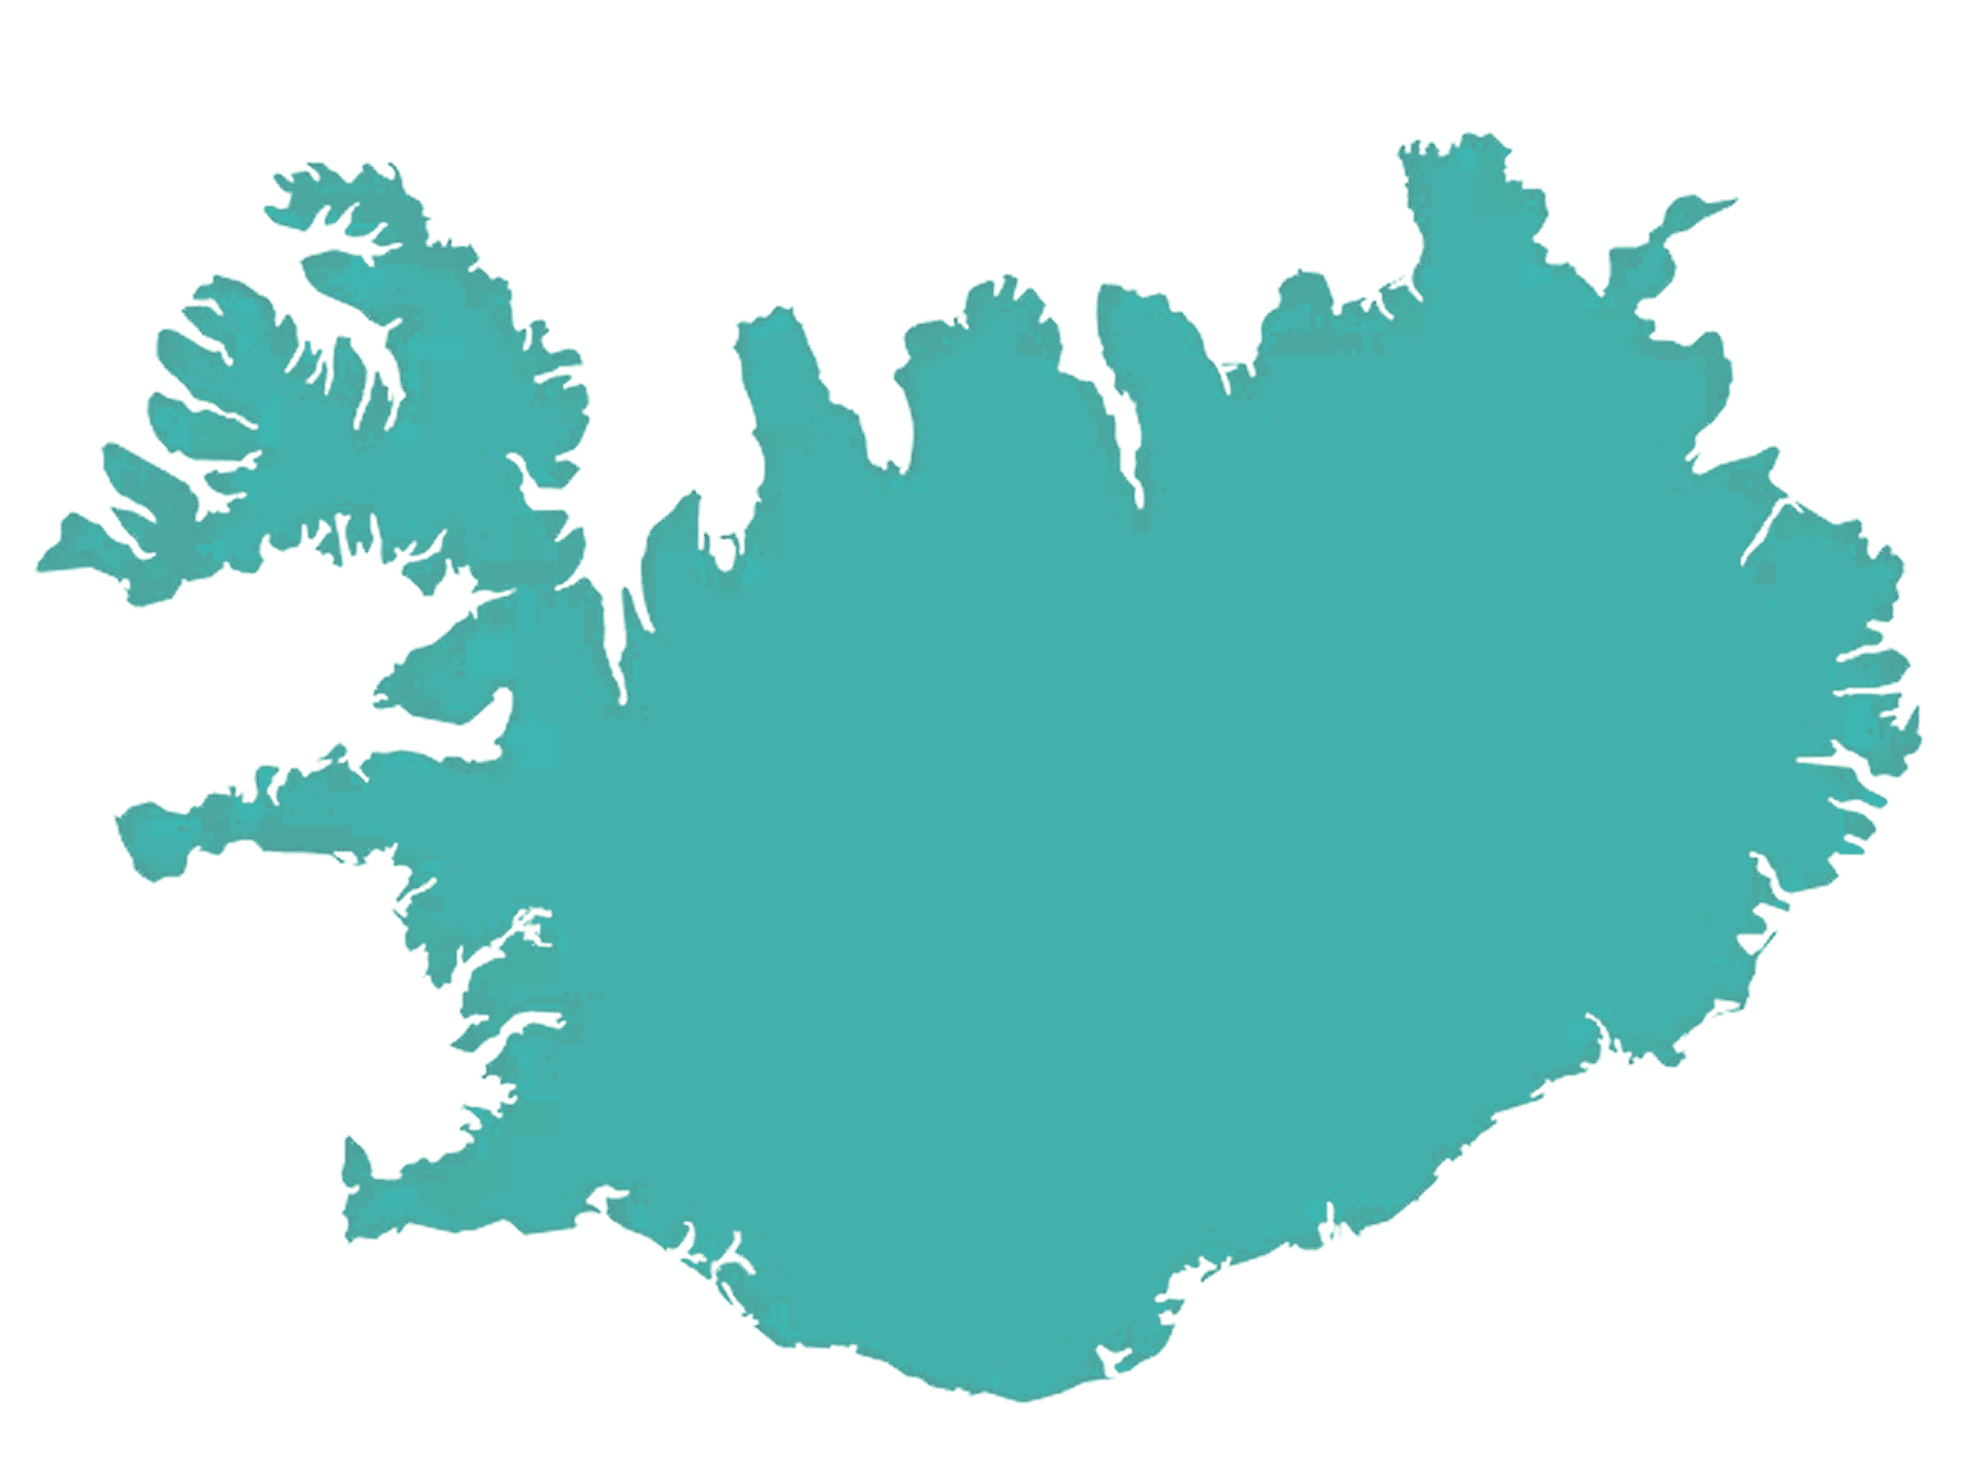
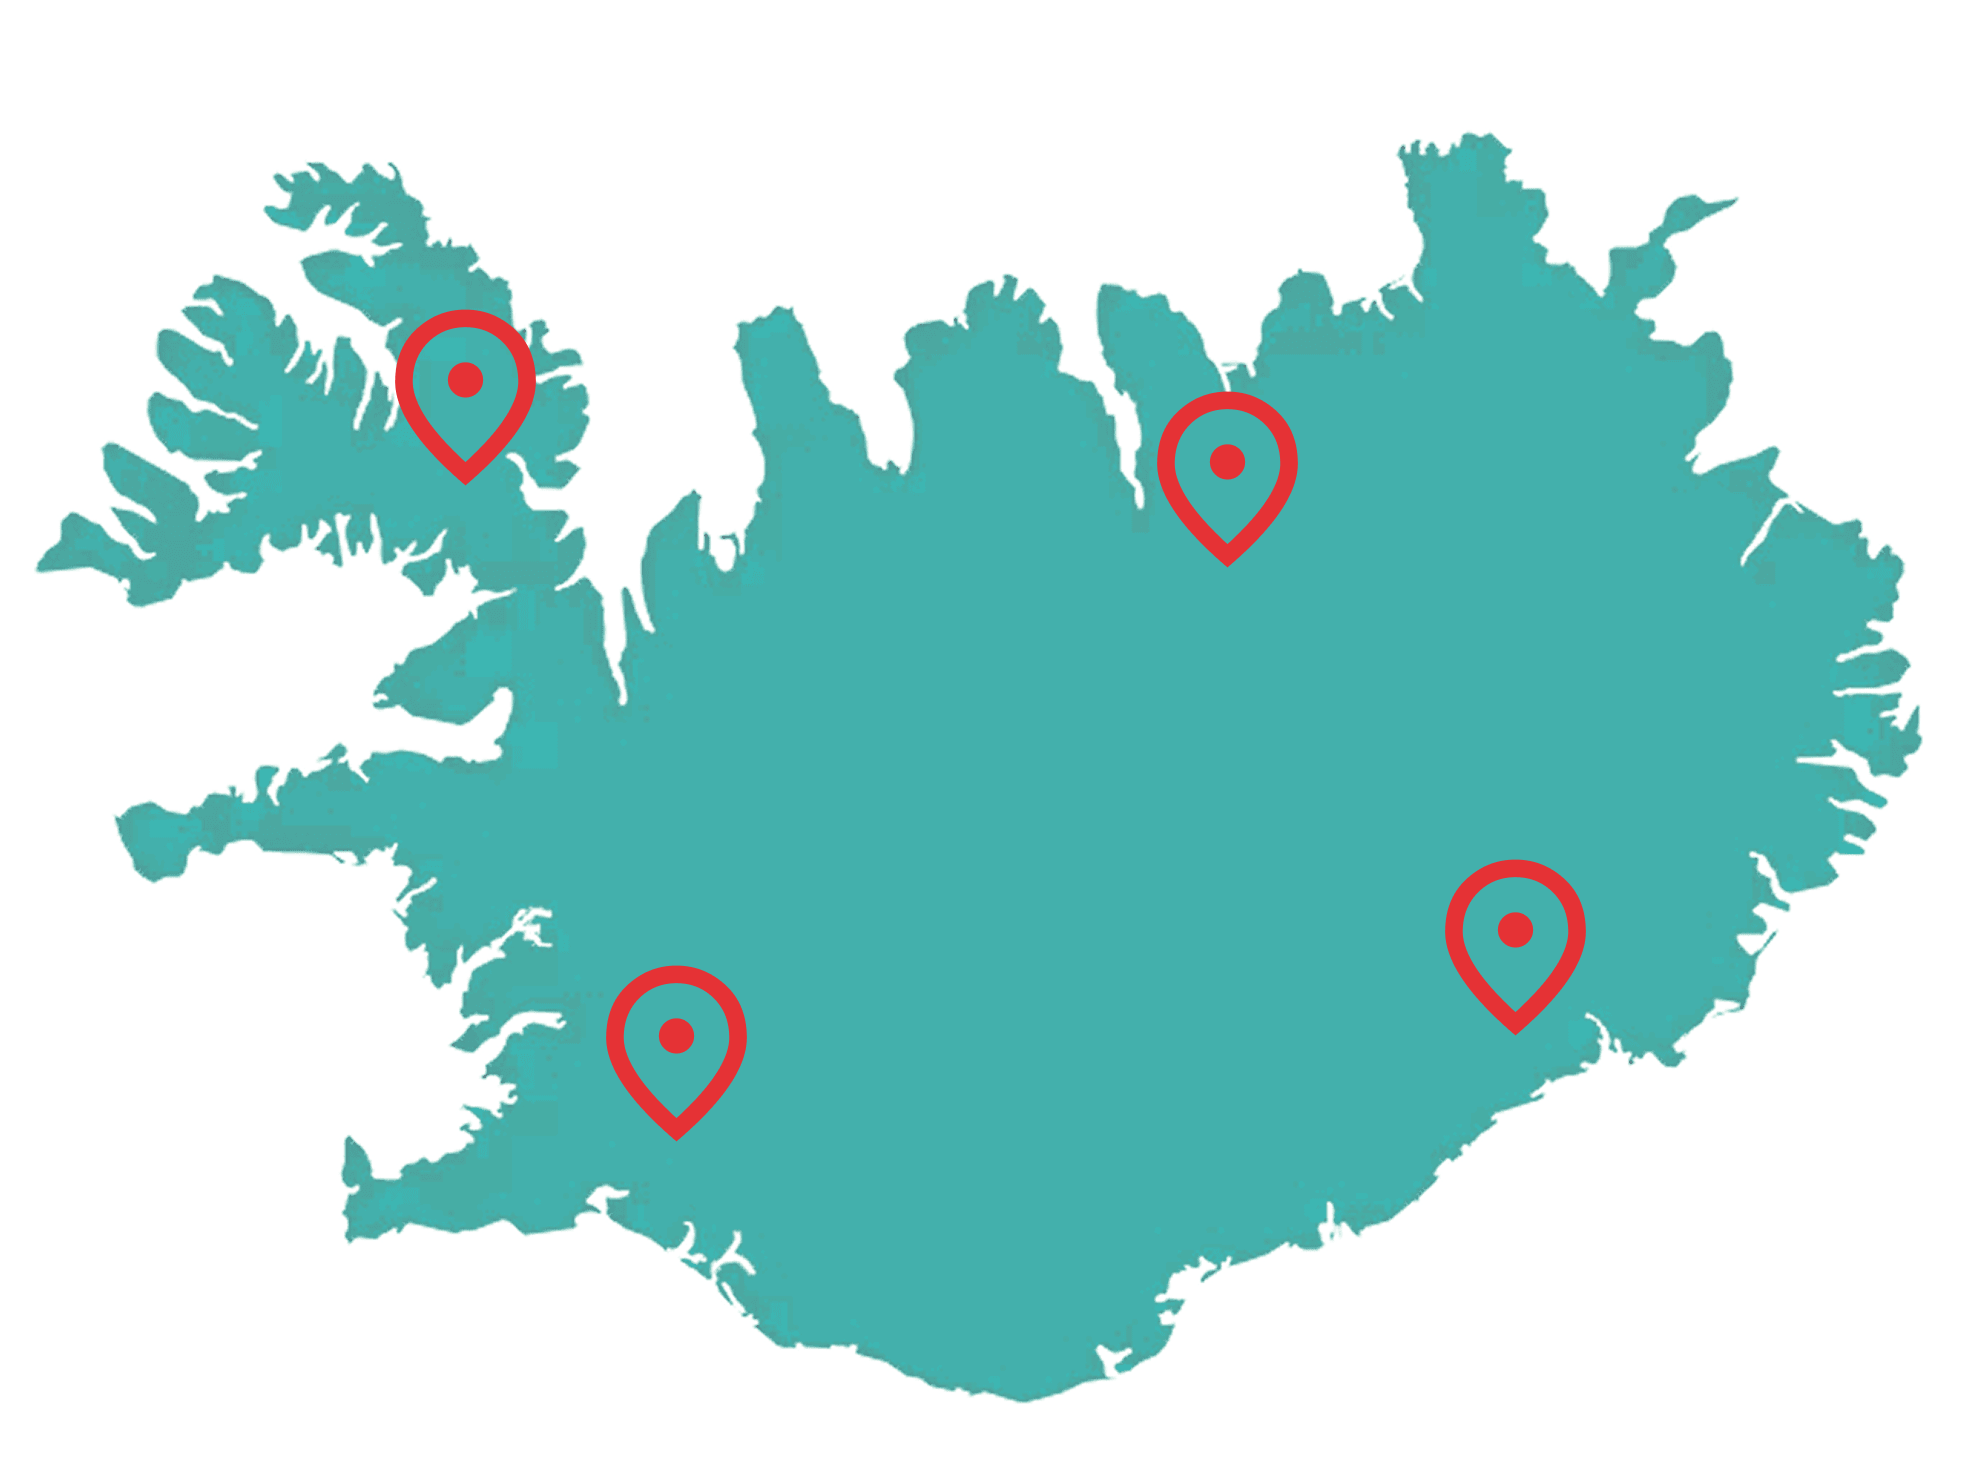
feat/final FINAL files

diff --git a/index.html b/index.html
@@ -72,8 +72,8 @@
 
         <section id="map">
             <div class="container-map">
-                <ul class="col-11">
-                    <li class="locations col-3">
+                <ul class="col-12">
+                    <li class="locations up-left col-3">
                         <span class="material-symbols-outlined highlight">location_on</span>
                         <div>
                             <h3 class="highlight">VESTFIRDIR</h3>
@@ -81,7 +81,7 @@
                             <p>Cascadas, Acantilados, Reserva Natural  y Fiordos.</p>
                         </div>
                     </li>
-                    <li class="locations col-3">
+                    <li class="locations up-right col-3">
                         <span class="material-symbols-outlined highlight">location_on</span>
                         <div>
                             <h3 class="highlight">MYVATN</h3>
@@ -89,7 +89,7 @@
                             <p>Lago Volcánico, Aguas Termales, Montañas y Muchos Patos.</p>
                         </div>
                     </li>
-                    <li class="locations col-3">
+                    <li class="locations bottom-left col-3">
                         <span class="material-symbols-outlined highlight">location_on</span>
                         <div>
                             <h3 class="highlight">REYKJAVIK</h3>
@@ -97,7 +97,7 @@
                             <p>Entrada del Concierto Harpa, Museos, <strong>Vida Nocturna</strong>.</p>
                         </div>
                     </li>
-                    <li class="locations col-3">
+                    <li class="locations bottom-right col-3">
                         <span class="material-symbols-outlined highlight">location_on</span>
                         <div>
                             <h3 class="highlight">JÖKULSÁRLÓN</h3>

diff --git a/style.css b/style.css
@@ -236,39 +236,56 @@ body{
     width: 100%;
     height: 90vh;
 
+    position: relative;
     display: flex;
+    
+    justify-content: center;
     align-items: center;
 
     ul{
       gap: 8px;
+      width: 100%;
+      height: 100%;
 
       li{
-        list-style: none;
         display: flex;
         align-items: flex-start;
         gap: 12px;  
+        /* width: 45%; */
 
         .material-symbols-outlined{
           font-size: 48px;
         }
 
-        div {
-          h3{
-            font-size: 32px;
-            line-height: 30px;
-          }
-
-          h4{
-            font-size: 20px;
-          }
-
-          p{
-            font-size: 16px;
-            text-wrap: wrap;
-          }
-        }
+        h3 { font-size: 32px; line-height: 30px; }
+        h4 { font-size: 20px; }
+        p { font-size: 16px; text-wrap: wrap; }
       }
     }
+}
+
+#map .container-map .up-left{
+  position: absolute;
+  top: 50px;
+  left: 50px;
+}
+
+#map .container-map .up-right{
+  position: absolute;
+  top: 50px;
+  right: 50px;
+}
+
+#map .container-map .bottom-right{
+  position: absolute;
+  bottom: 50px;
+  right: 50px;
+}
+
+#map .container-map .bottom-left{
+  position: absolute;
+  bottom: 50px;
+  left: 50px;
 }
 
 /*nosotros*/

diff --git a/section/gracias.html b/section/gracias.html
@@ -31,10 +31,10 @@
             <div class="container">
                 <h2>¡MENSAJE ENVIADO CON ÉXITO!</h2>
                 
-                <p class="">
+                <h3>
                     Agradecemos tu interés en explorar Islandia con nosotros.
                     Nos pondremos en contacto.
-                </p>
+                </h3>
 
                 <a href="../index.html" class="btn-home">
                     <span class="material-symbols-outlined">home</span> VOLVER AL INICIO

diff --git a/formulario.html b/formulario.html
@@ -72,7 +72,7 @@
                         <label for="mail">Correo electrónico</label>
                             <input type="email" id="mail" name="correo" required>
                         
-                        <label for="text">Asunto</label>
+                        <label for="asunto">Asunto</label>
                         <input type="text" id="asunto" name="asunto" required>
                         
                         <div class="options">
